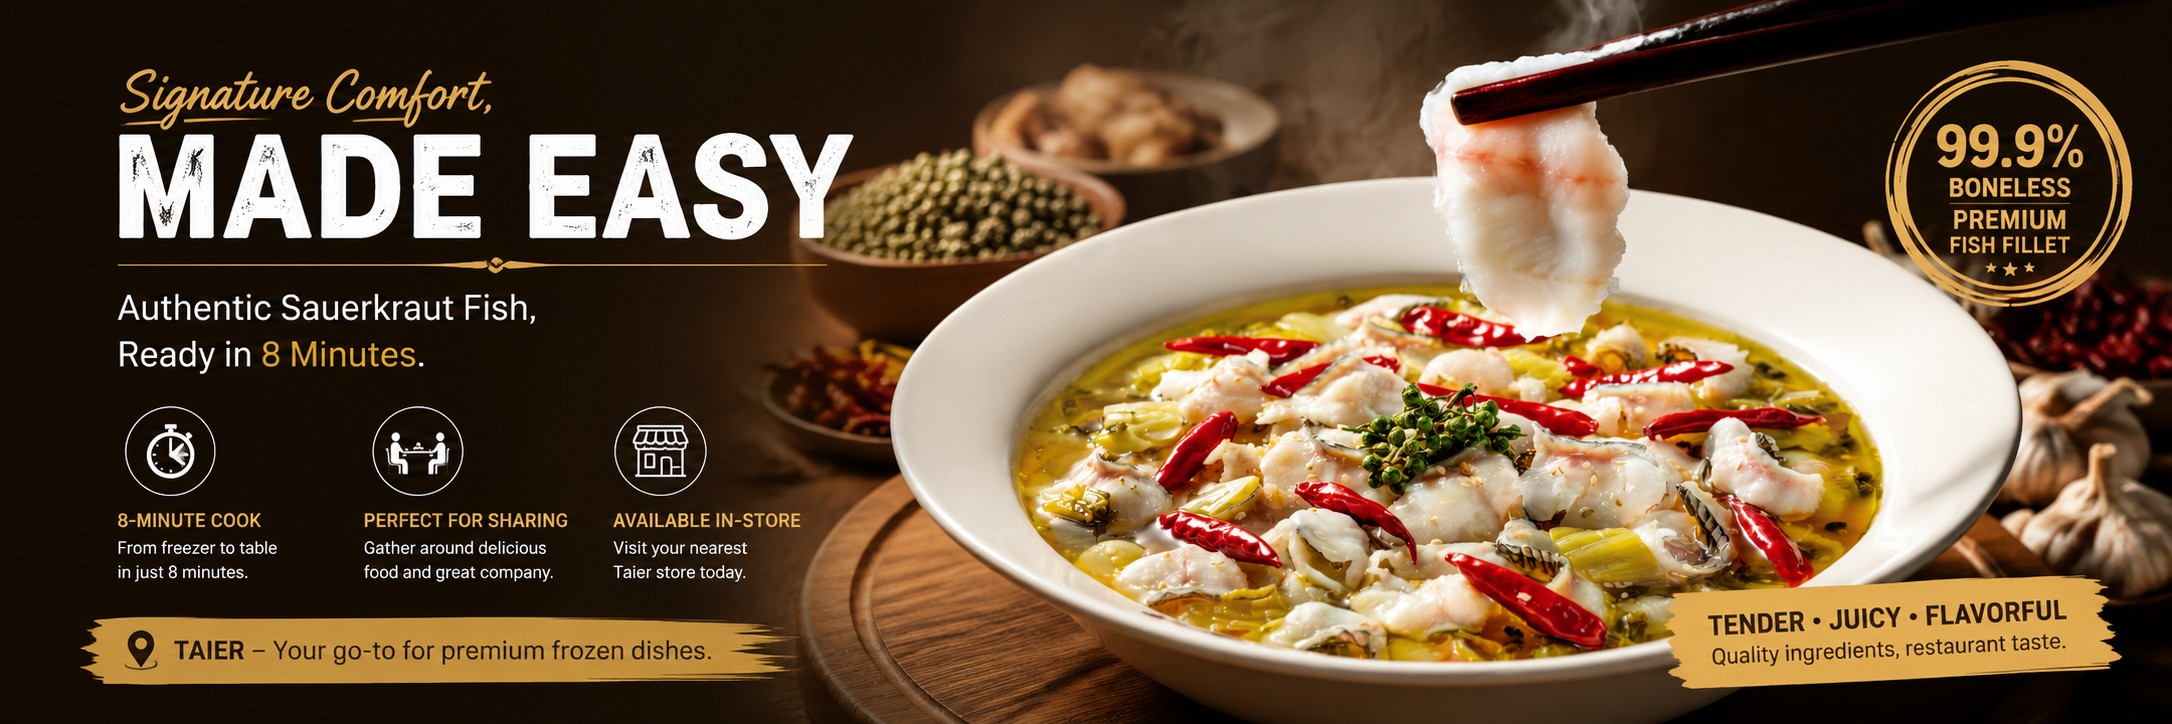
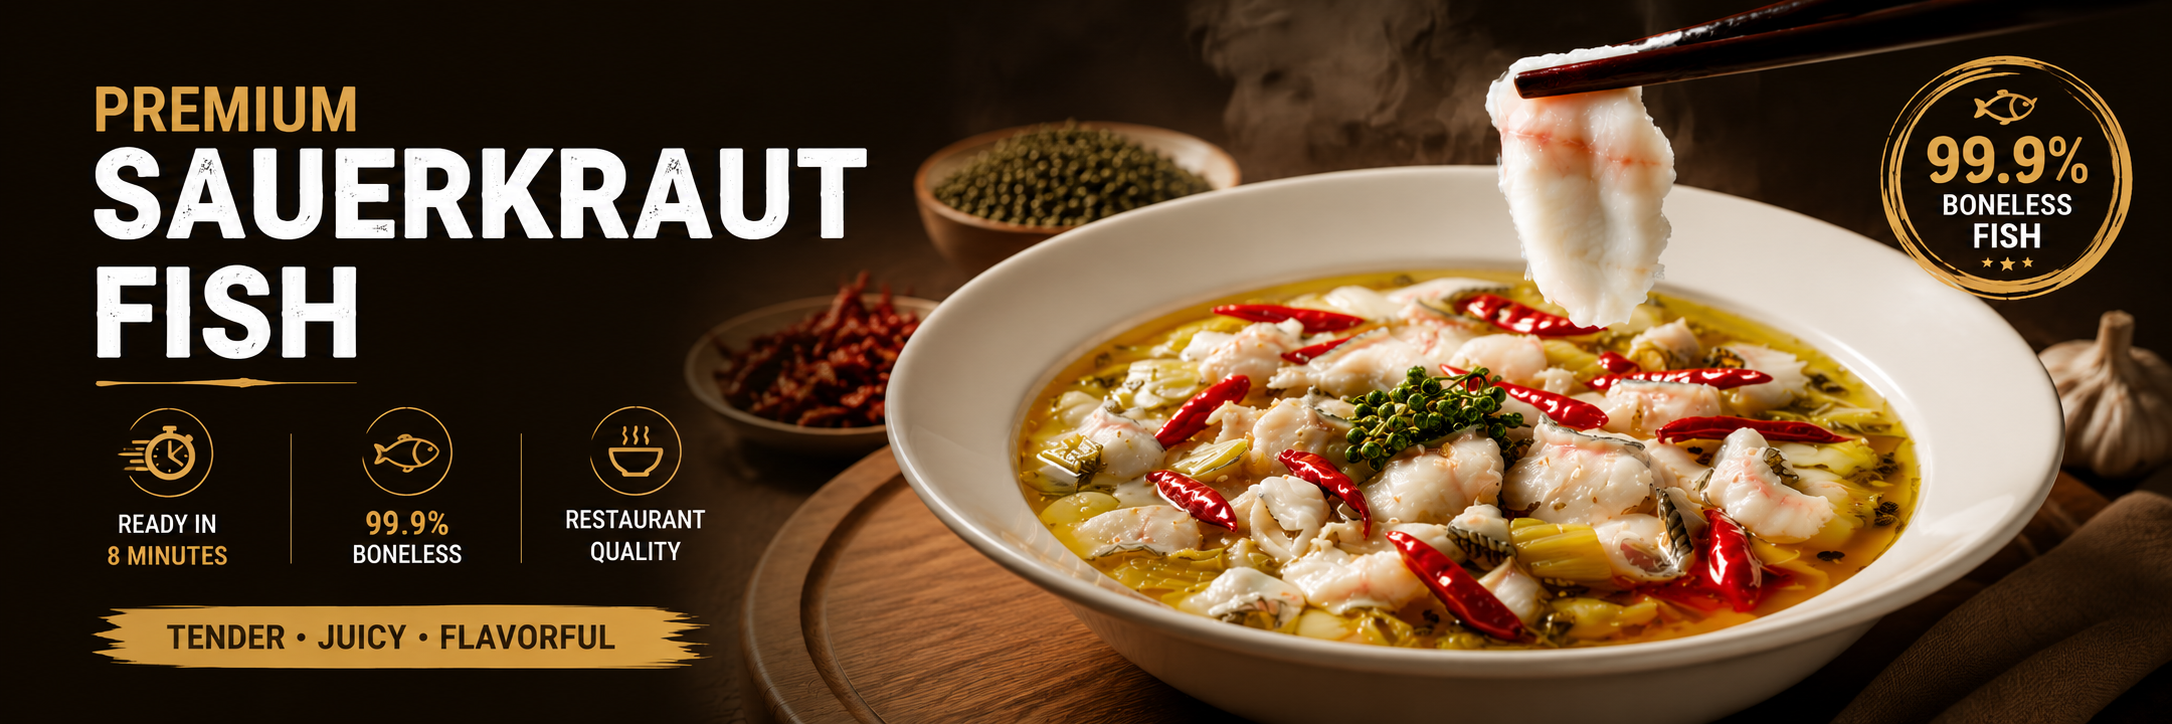
Fix brand grid to 6-col single row, enlarge promo carousel, update Taier promo image

diff --git a/index.html b/index.html
@@ -674,7 +674,7 @@
         /* Brand Grid - Oriental Merchant Style */
         .brand-grid {
             display: grid;
-            grid-template-columns: repeat(auto-fill, minmax(200px, 1fr));
+            grid-template-columns: repeat(6, 1fr);
             gap: 0;
         }
         
@@ -720,7 +720,7 @@
         .brand-promo-track {
             position: relative;
             width: 100%;
-            height: 320px;
+            height: 400px;
             overflow: hidden;
             background: #fafafa;
         }
@@ -1243,11 +1243,11 @@
             }
             
             .brand-grid {
-                grid-template-columns: repeat(2, 1fr);
+                grid-template-columns: repeat(3, 1fr);
             }
 
             .brand-promo-track {
-                height: 220px;
+                height: 280px;
             }
             .brand-promo-arrow {
                 width: 36px; height: 36px;